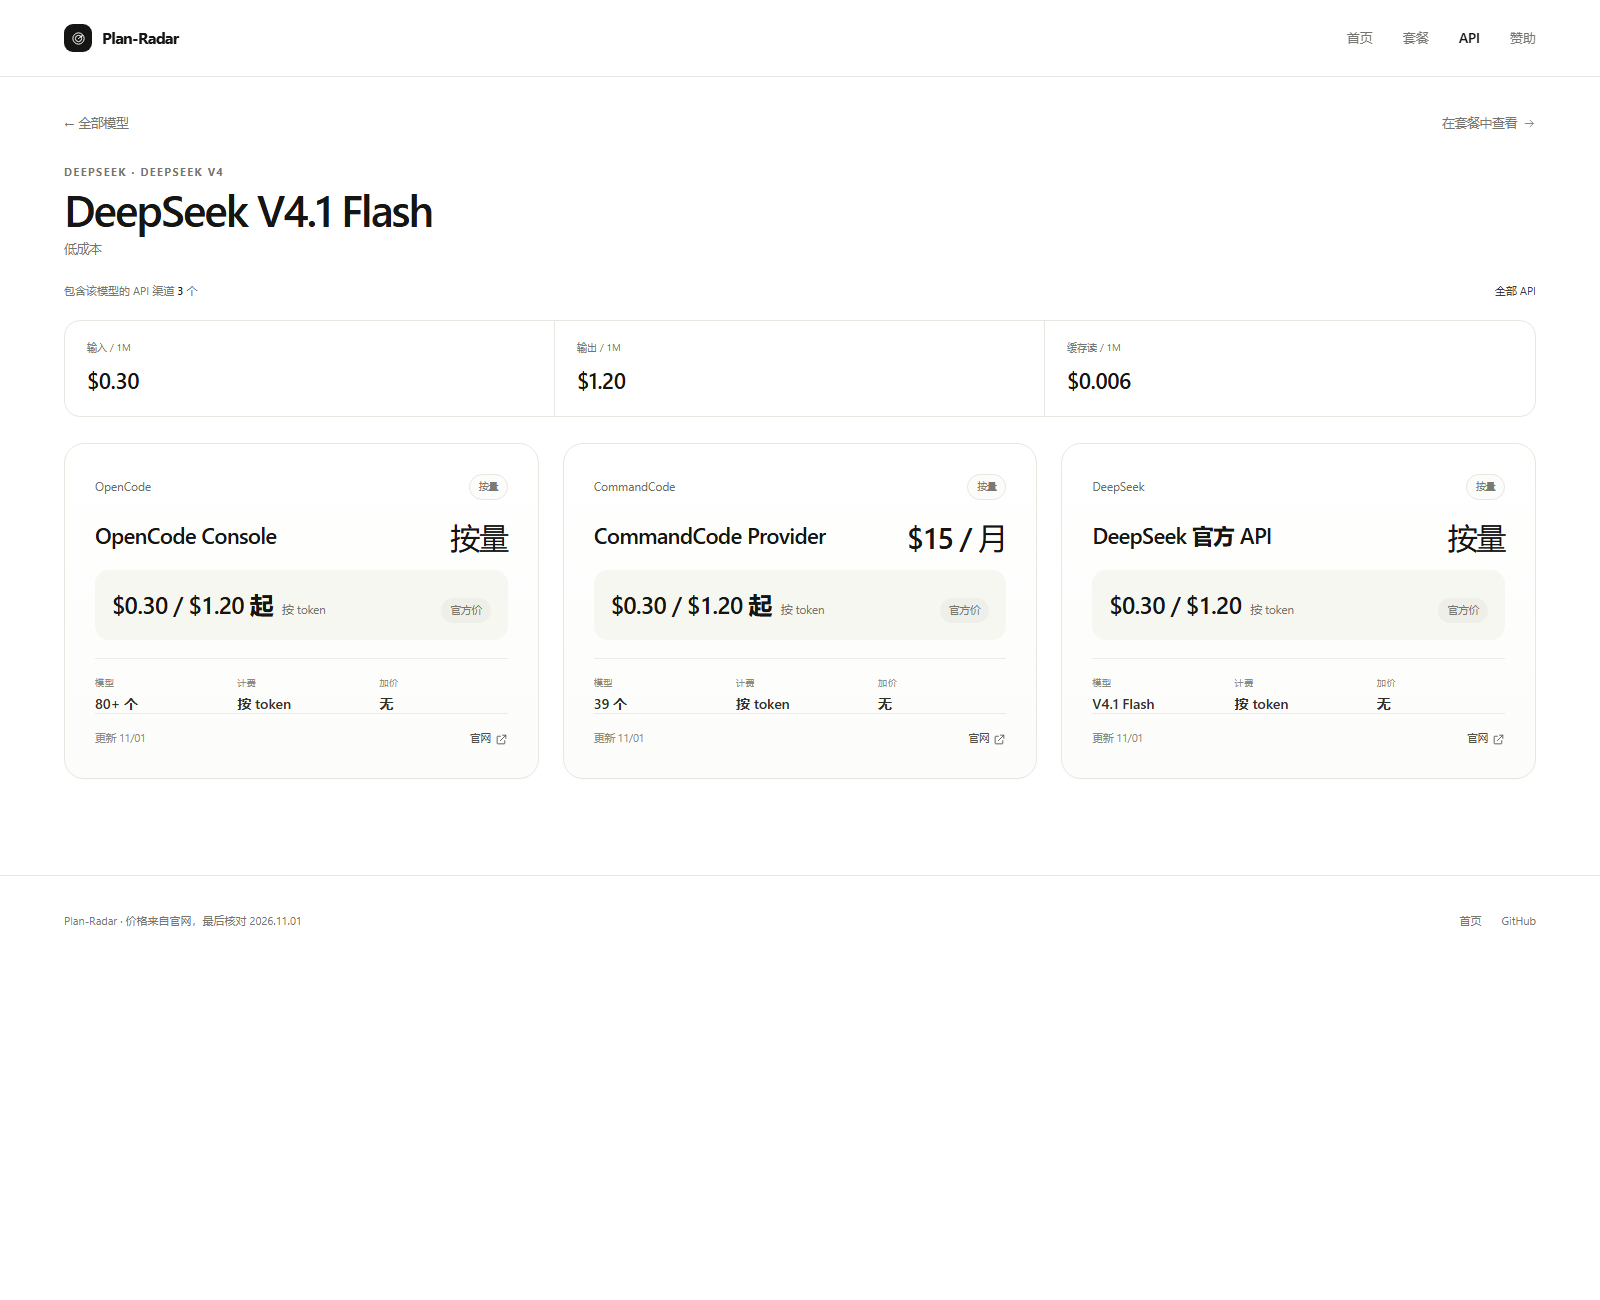
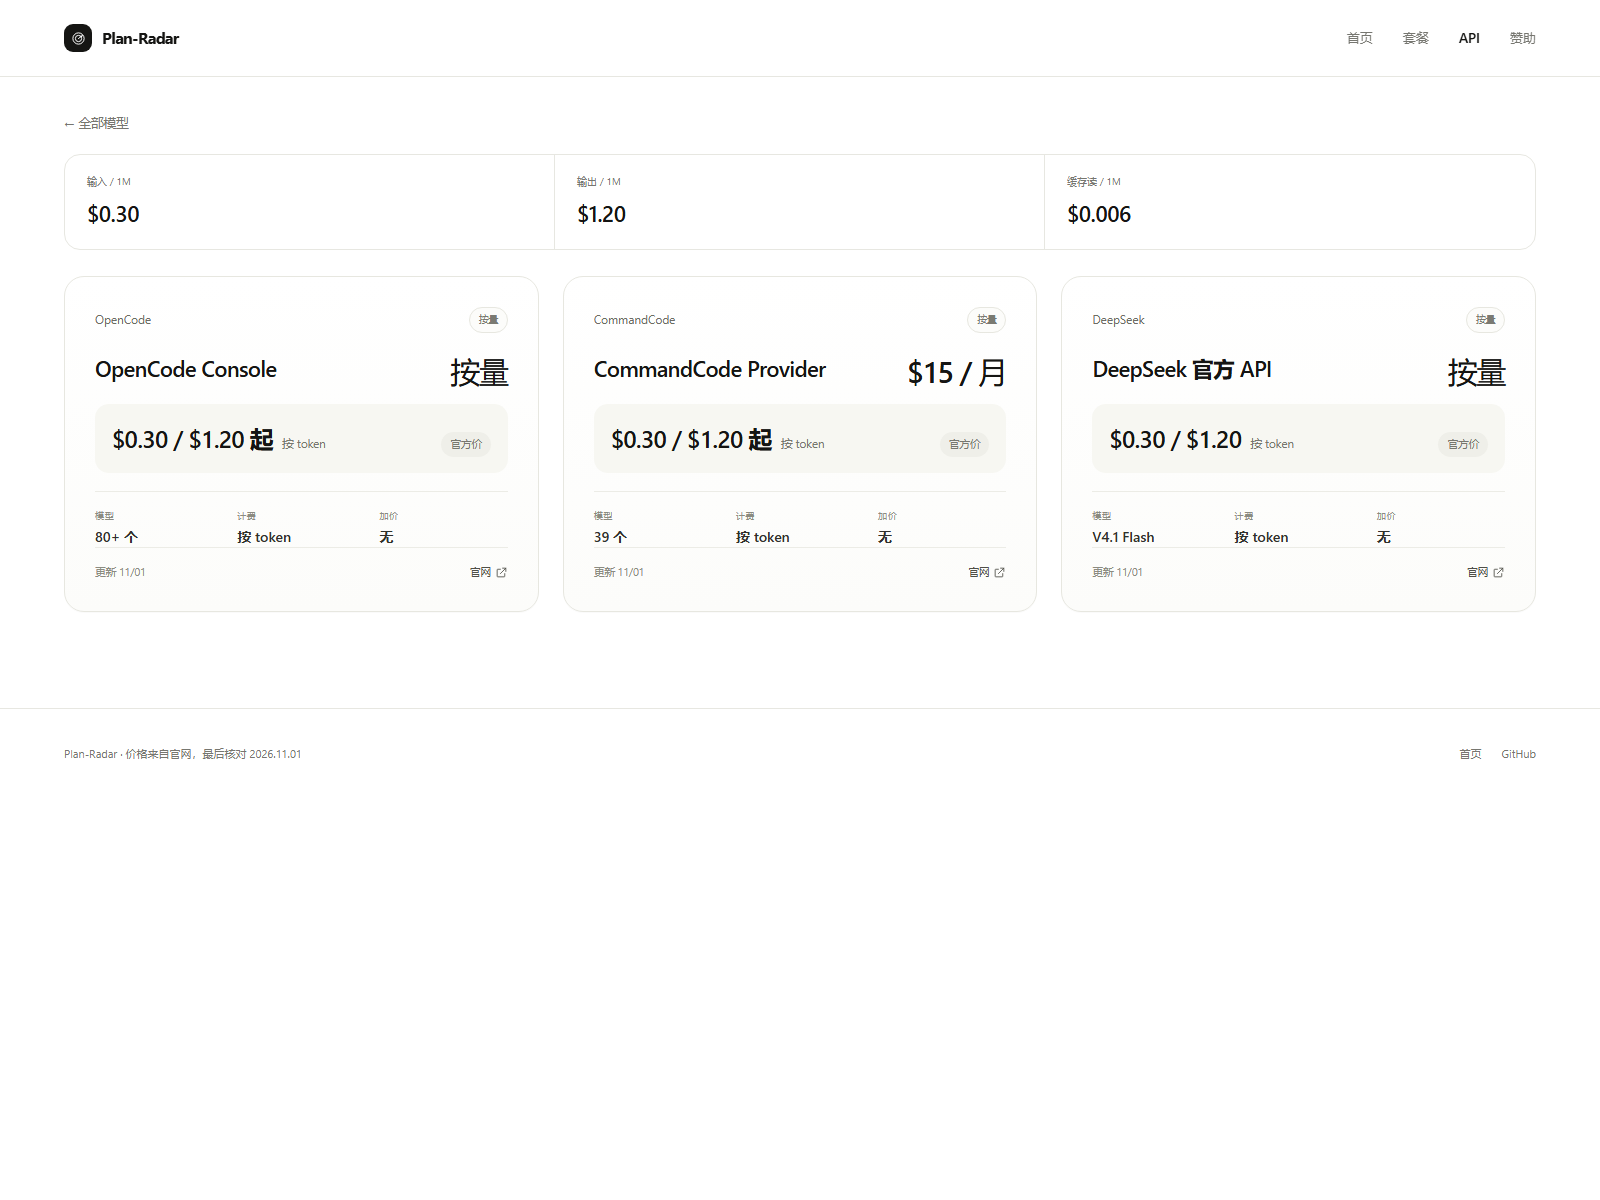
fix: simplify model detail

diff --git a/app/api/[model]/page.tsx b/app/api/[model]/page.tsx
@@ -1,6 +1,5 @@
 import { notFound } from "next/navigation";
 import { ApiCard } from "@/components/ApiCard";
-import { Icon } from "@/components/Icon";
 import { apiChannels, tokenPrices } from "@/lib/api";
 import {
   apisForModel,
@@ -26,30 +25,11 @@ export default async function ModelApiPage({
 
   return (
     <div className="wrap">
+      <h1 className="visually-hidden">{model.name}</h1>
       <div className="detail-top">
         <a className="link-arrow" href="/api/">
           ← 全部模型
         </a>
-        <a className="link-arrow" href={`/plans/${slug}/`}>
-          在套餐中查看 <Icon name="arrow" className="icon icon-sm" />
-        </a>
-      </div>
-
-      <header className="model-head">
-        <div>
-          <div className="eyebrow">
-            {model.provider} · {model.family}
-          </div>
-          <h1>{model.name}</h1>
-          <p>{model.note}</p>
-        </div>
-      </header>
-
-      <div className="catalog-result">
-        <span>
-          包含该模型的 API 渠道 <b>{channels.length}</b> 个
-        </span>
-        <a href="/api/all/">全部 API</a>
       </div>
 
       {price ? (

diff --git a/app/plans/[model]/page.tsx b/app/plans/[model]/page.tsx
@@ -1,5 +1,4 @@
 import { notFound } from "next/navigation";
-import { Icon } from "@/components/Icon";
 import { PlanCard } from "@/components/PlanCard";
 import {
   getModel,
@@ -35,30 +34,11 @@ export default async function ModelPlansPage({
 
   return (
     <div className="wrap">
+      <h1 className="visually-hidden">{model.name}</h1>
       <div className="detail-top">
         <a className="link-arrow" href="/plans/">
           ← 全部模型
         </a>
-        <a className="link-arrow" href={`/api/${slug}/`}>
-          在 API 中查看 <Icon name="arrow" className="icon icon-sm" />
-        </a>
-      </div>
-
-      <header className="model-head">
-        <div>
-          <div className="eyebrow">
-            {model.provider} · {model.family}
-          </div>
-          <h1>{model.name}</h1>
-          <p>{model.note}</p>
-        </div>
-      </header>
-
-      <div className="catalog-result">
-        <span>
-          包含该模型的套餐 <b>{plans.length}</b> 个
-        </span>
-        <a href="/plans/all/">全部套餐</a>
       </div>
 
       {plans.length > 0 ? (

diff --git a/app/globals.css b/app/globals.css
@@ -751,7 +751,7 @@ h1, h2, h3, p { margin: 0; }
 @media (min-width: 1900px) {
   .plan-grid { grid-template-columns: repeat(3, minmax(0, 1fr)); }
 }
-.plan-groups { display: flex; flex-direction: column; gap: 16px; }
+.plan-groups { display: flex; flex-direction: column; gap: 16px; margin-top: 24px; }
 .plan-group-row { display: grid; grid-template-columns: repeat(3, minmax(0, 1fr)); gap: 16px; }
 .plan-card.compact { padding: 22px; border-radius: 16px; }
 .plan-card.compact .plan-top { margin-bottom: 16px; }
